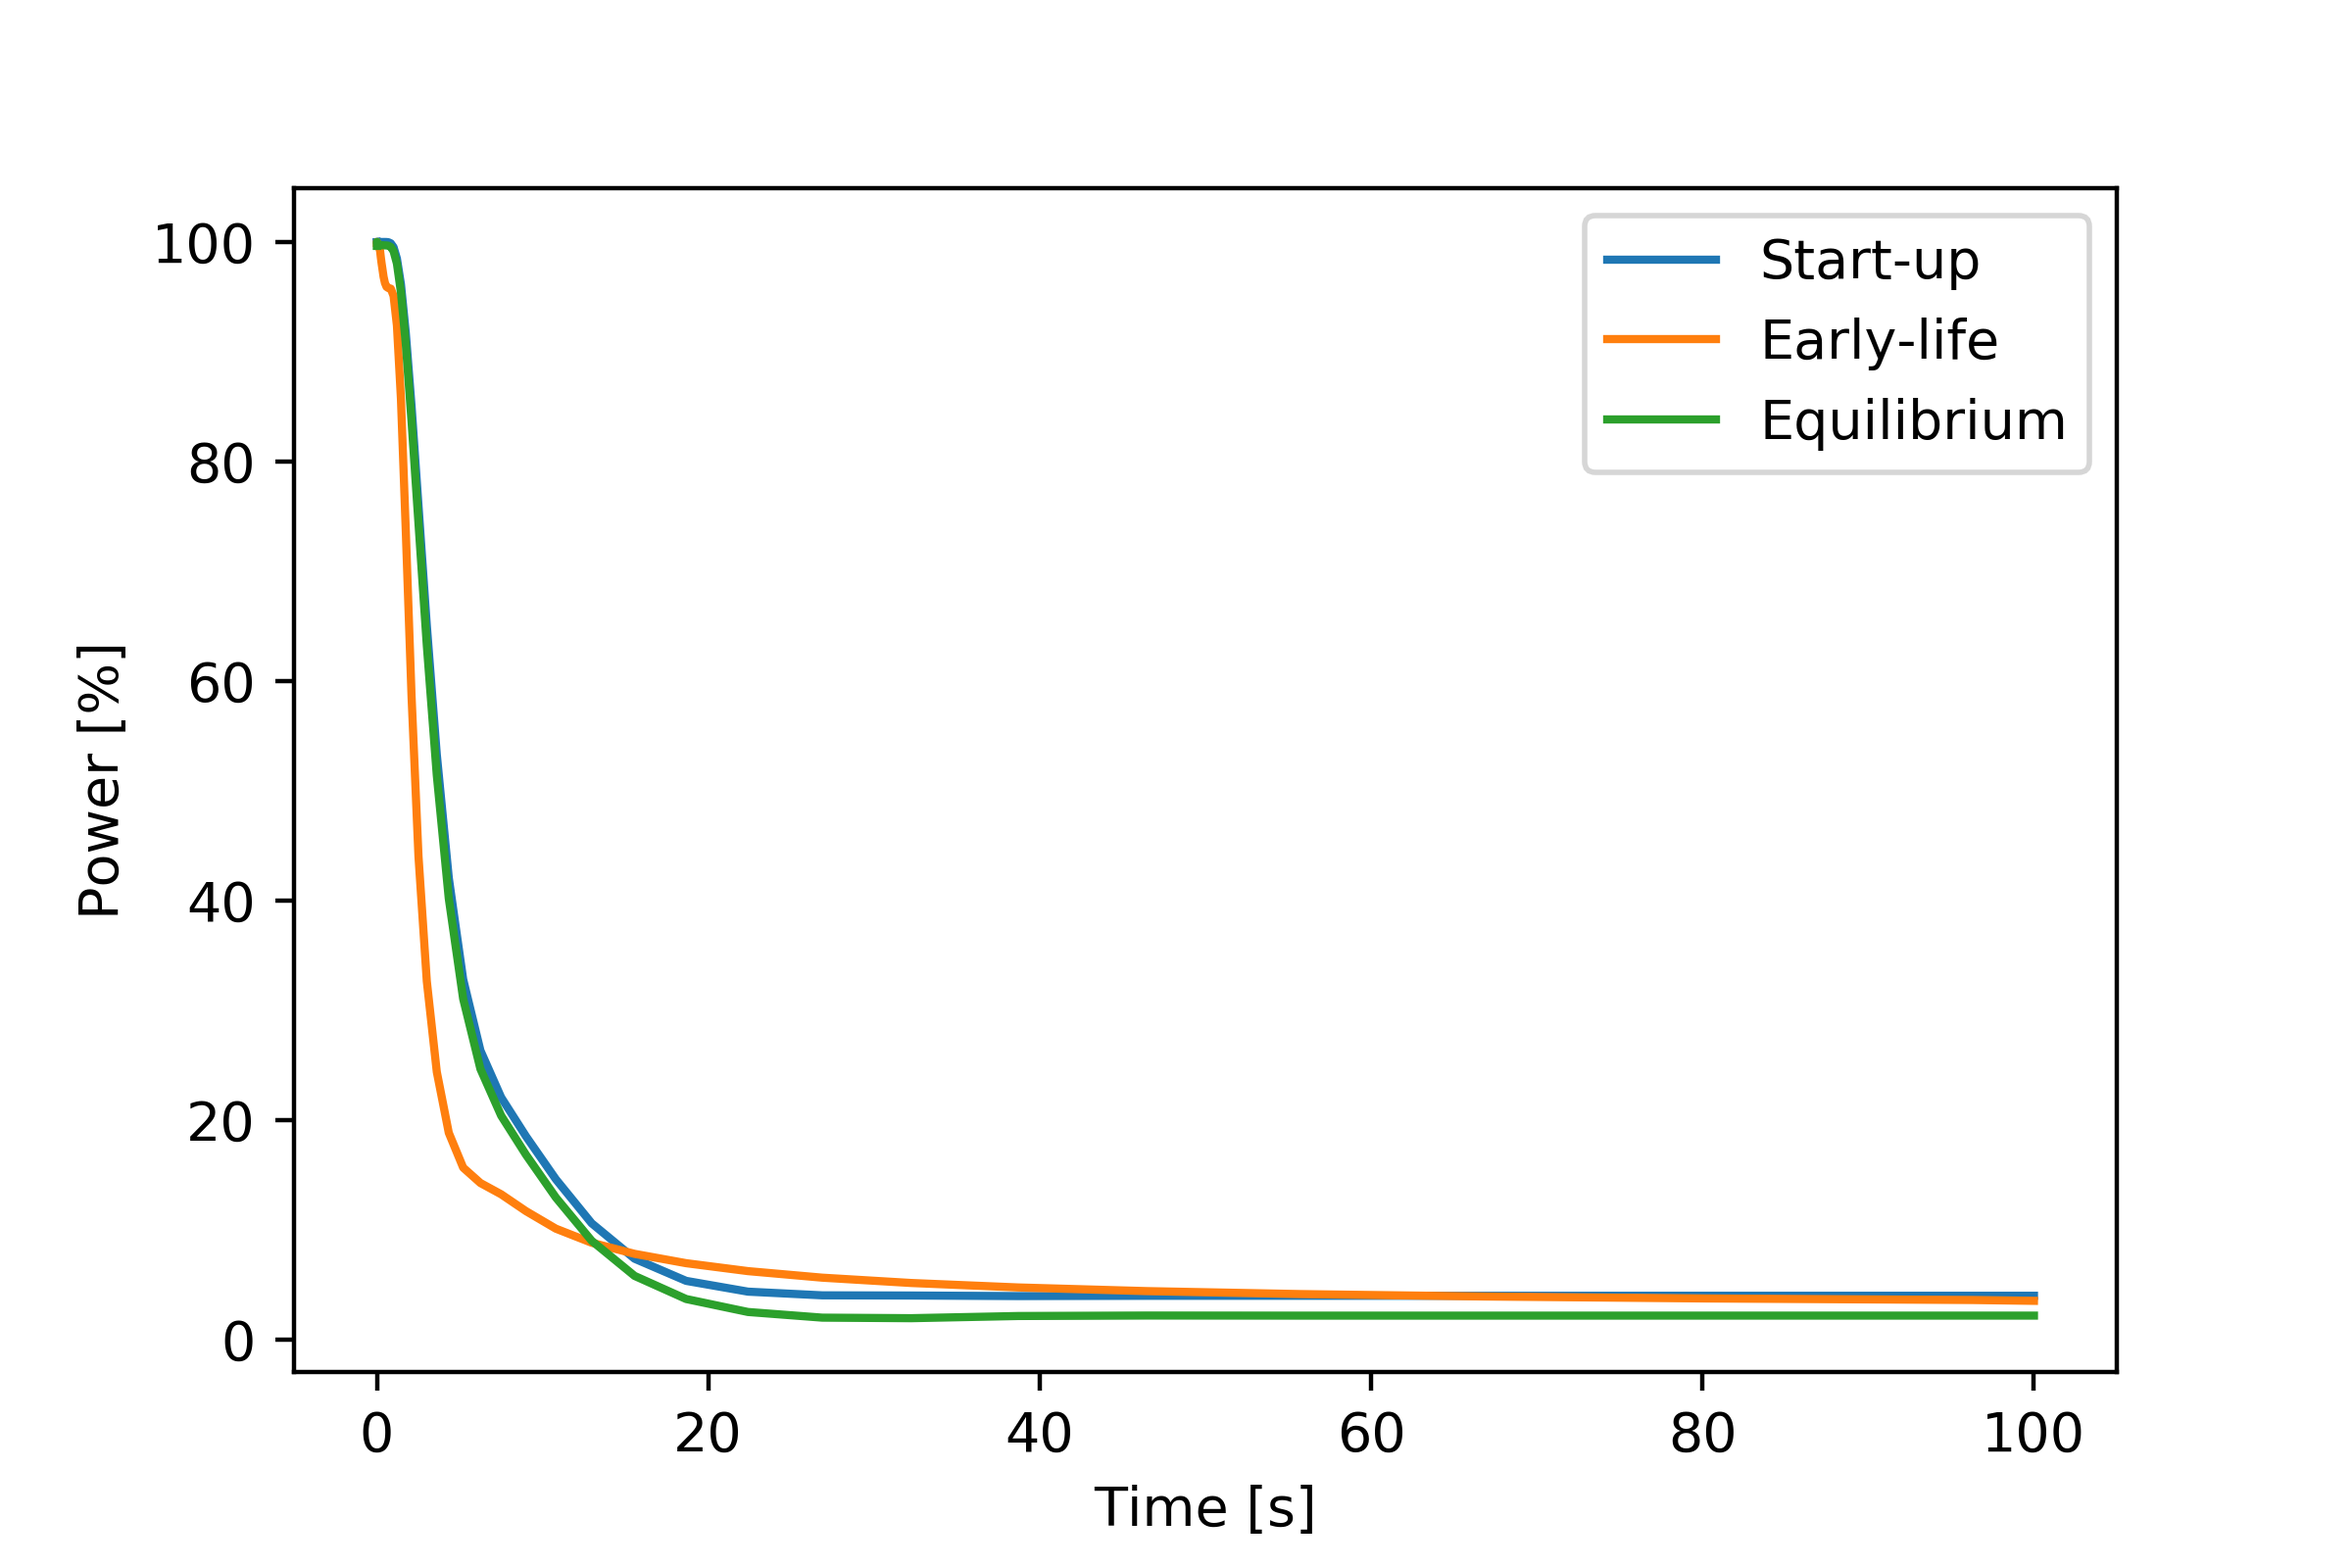
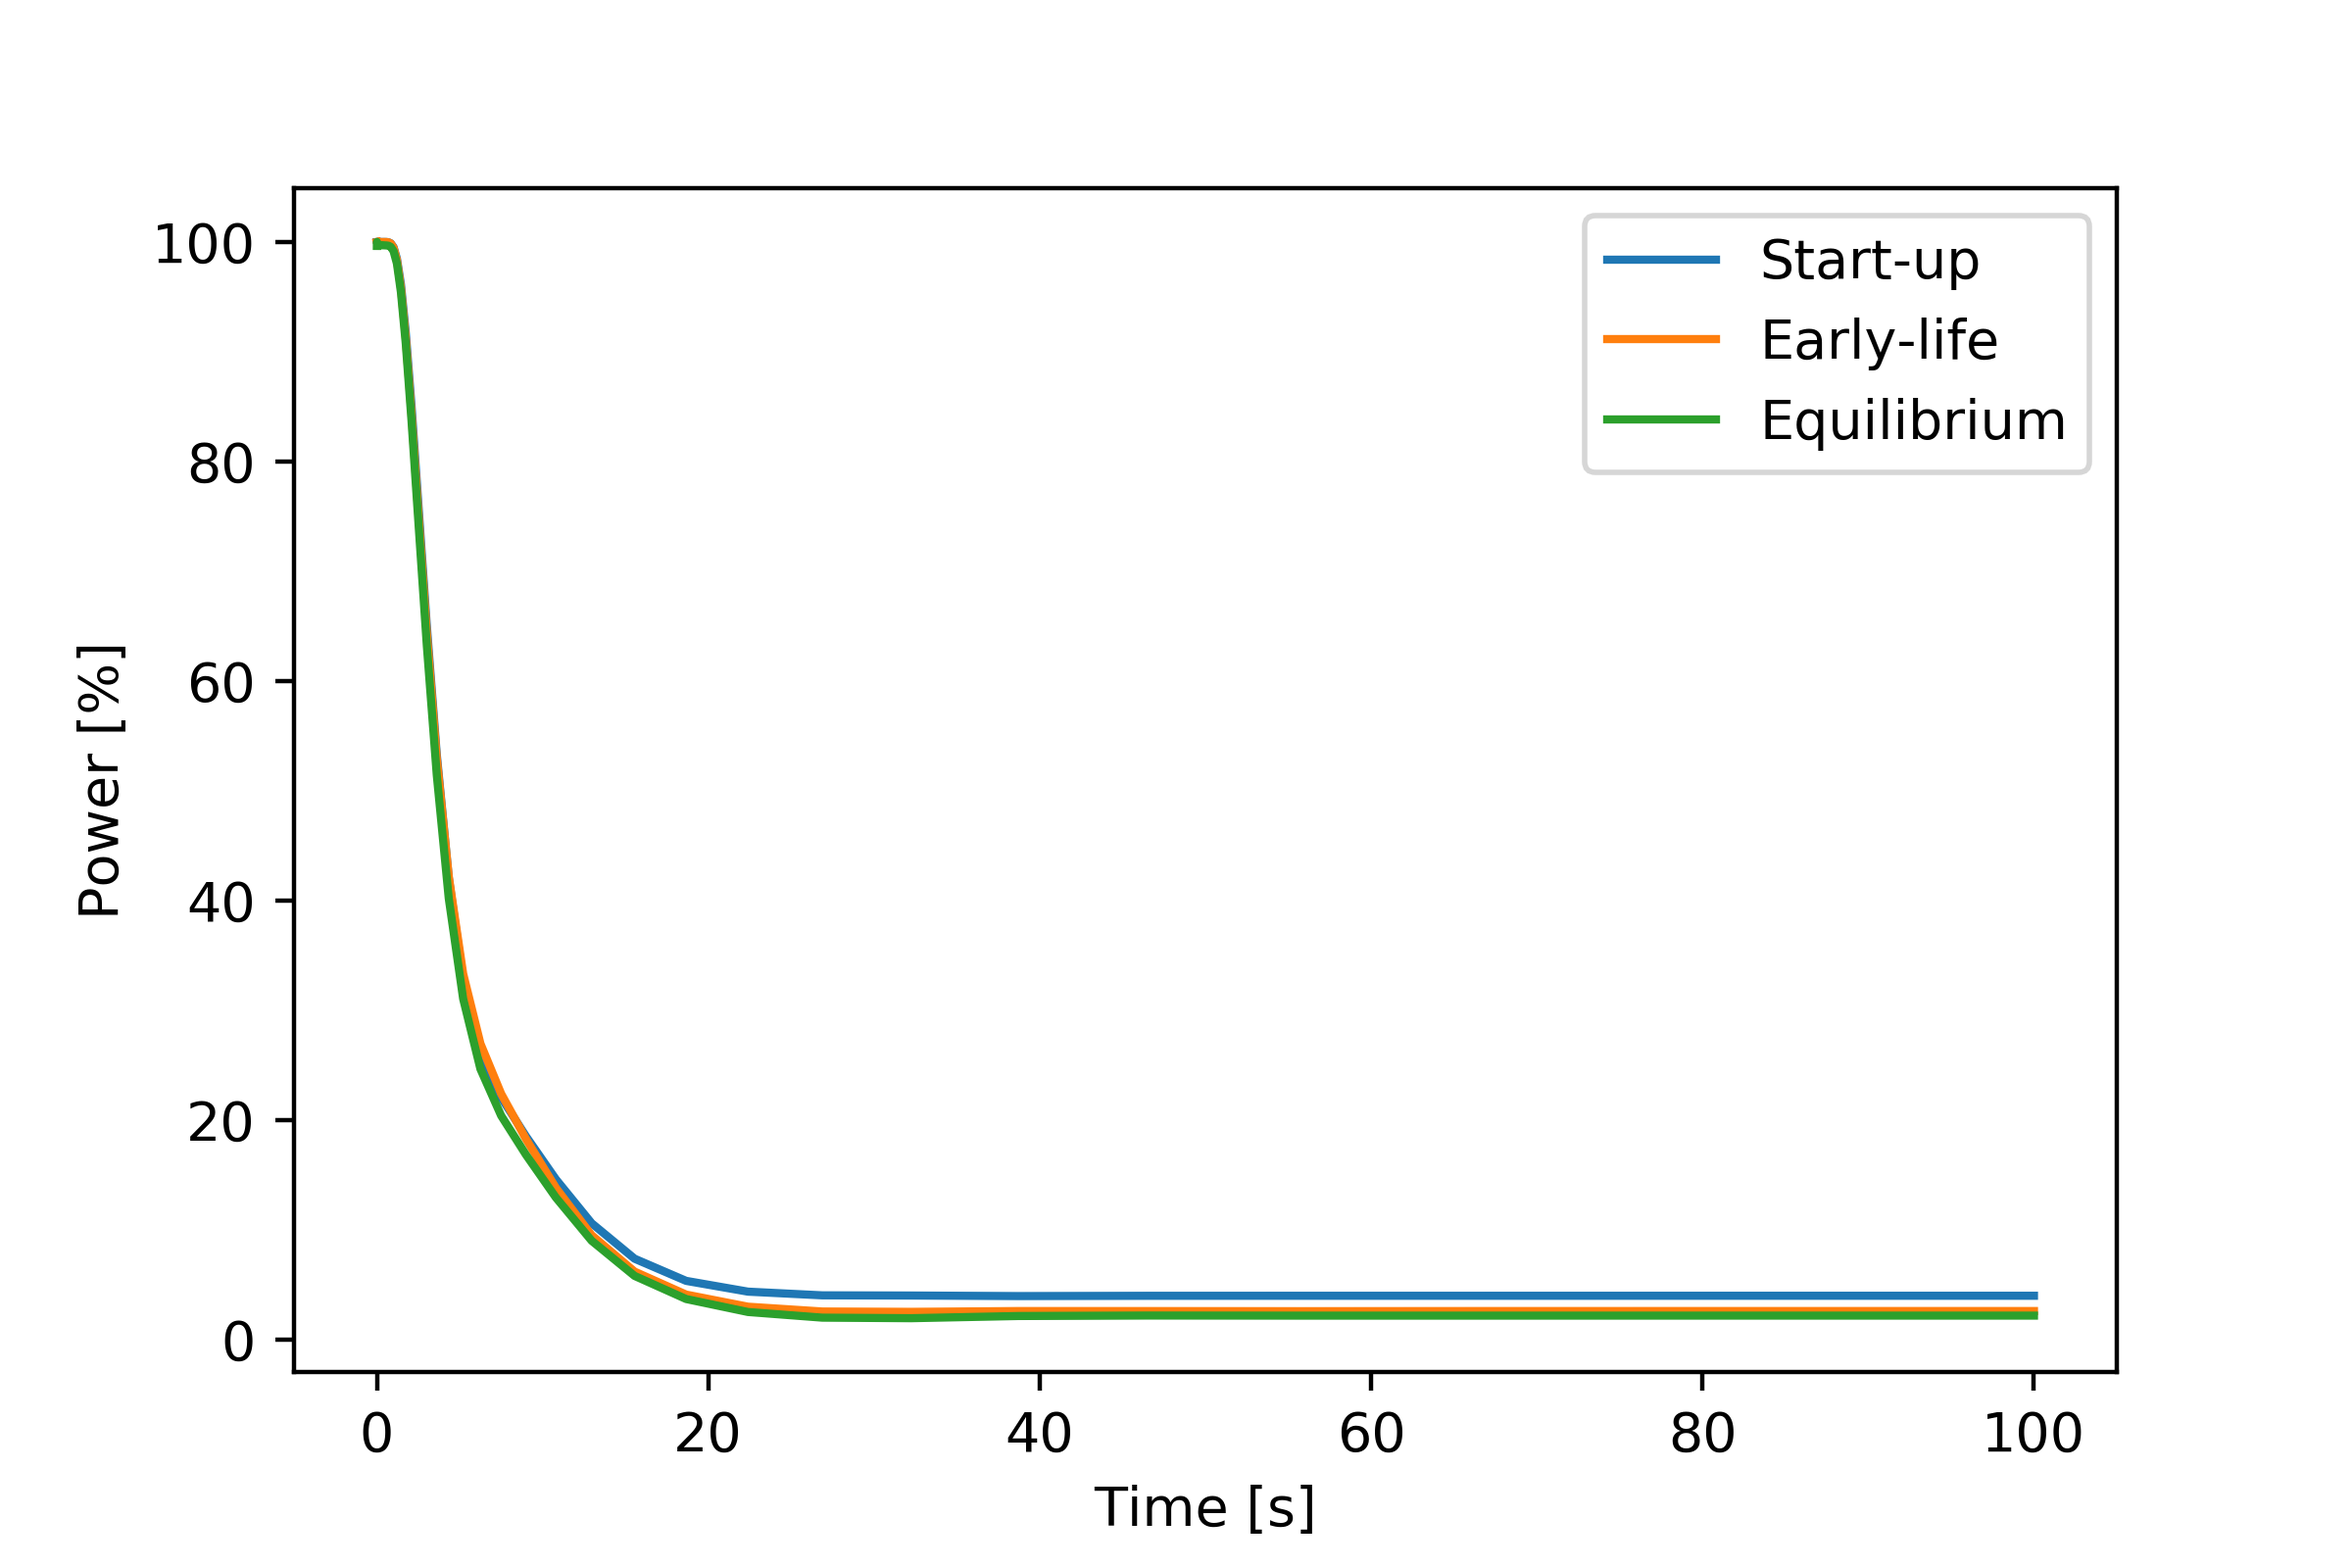
Revert "Swap wrong plot"
This reverts commit e985f987bf2693439eff9b755835e3ca5b39fcba.

Changed region(s): [[0.1562, 0.1562, 0.875, 0.8438]]

diff --git a/data/losca-plotter.py b/data/losca-plotter.py
@@ -14,7 +14,7 @@ temp = df['temp_fuel']
 heat = df['heat']
 #maxe = df['max_temp_fuel']
 
-dfl = pd.read_csv('ulohs-st-prec_out.csv')
+dfl = pd.read_csv('losca-el_out.csv')
 tl = dfl['time']
 g1l = dfl['group1_current']
 g2l = dfl['group2_current']
